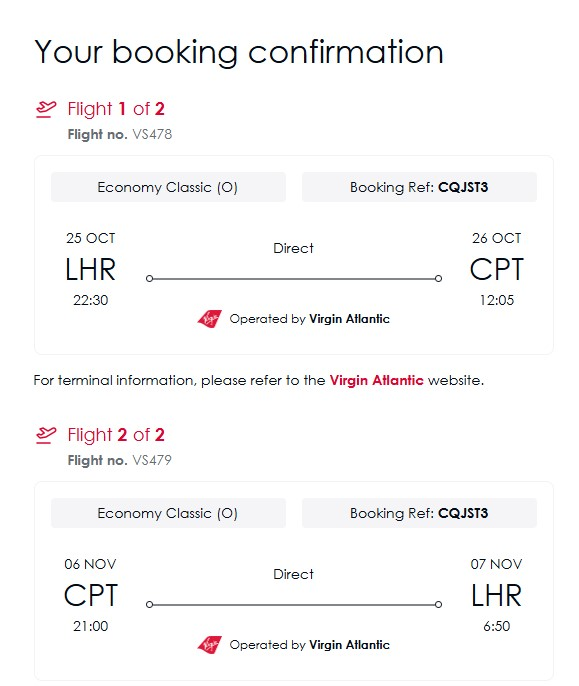
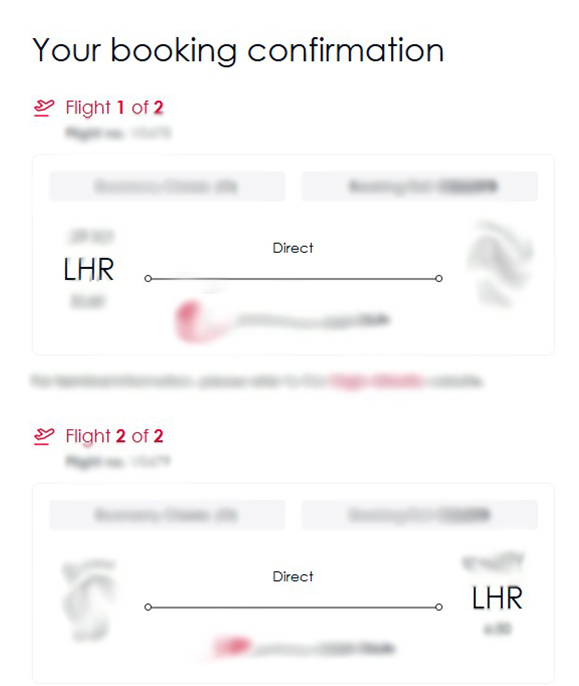
Queens: finishing the puzzle goes straight to the reward page instead of leaving her on the puzzle screen

diff --git a/js/puzzle5.js b/js/puzzle5.js
@@ -312,8 +312,13 @@ function submitLevelAnswer(event) {
 
 function finishQueensPuzzle() {
   markSolved("puzzle5");
+  // Hide the whole puzzle screen (tabs, board, question, preview panel) so
+  // nothing but the finish card is left, then go straight to the reward page
+  // instead of making her scroll down to find a link.
+  document.getElementById("queensGameWrapper").style.display = "none";
   document.getElementById("queensQuestionCard").style.display = "none";
   document.getElementById("queensAllComplete").style.display = "block";
+  window.location.replace("reward5.html");
 }
 
 /**
